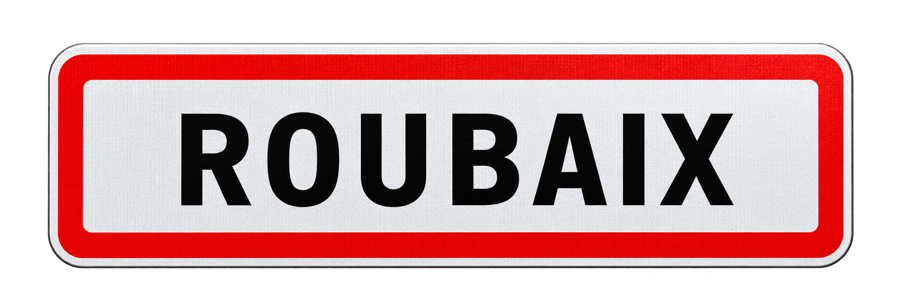
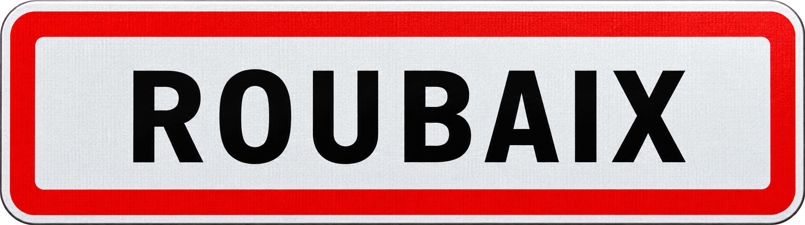
Image du panneau Lille, panneaux recadrés à taille identique

diff --git a/src/data/agences.ts b/src/data/agences.ts
@@ -1,7 +1,7 @@
 export interface Agence {
   ville: string;
   path: string;
-  panneau?: string;
+  panneau: string;
   adresse?: string;
   prix: { auto: number; manuelle: number; accelere: number };
 }
@@ -17,6 +17,7 @@ export const agences: Agence[] = [
   {
     ville: 'Lille',
     path: '/lille',
+    panneau: '/panneau-lille.png',
     adresse: "36 Façade de l'Esplanade, 59800 Lille",
     // Offre de lancement -100€ ; prix normaux : 799 / 1090 / 1599
     prix: { auto: 699, manuelle: 990, accelere: 1499 },
